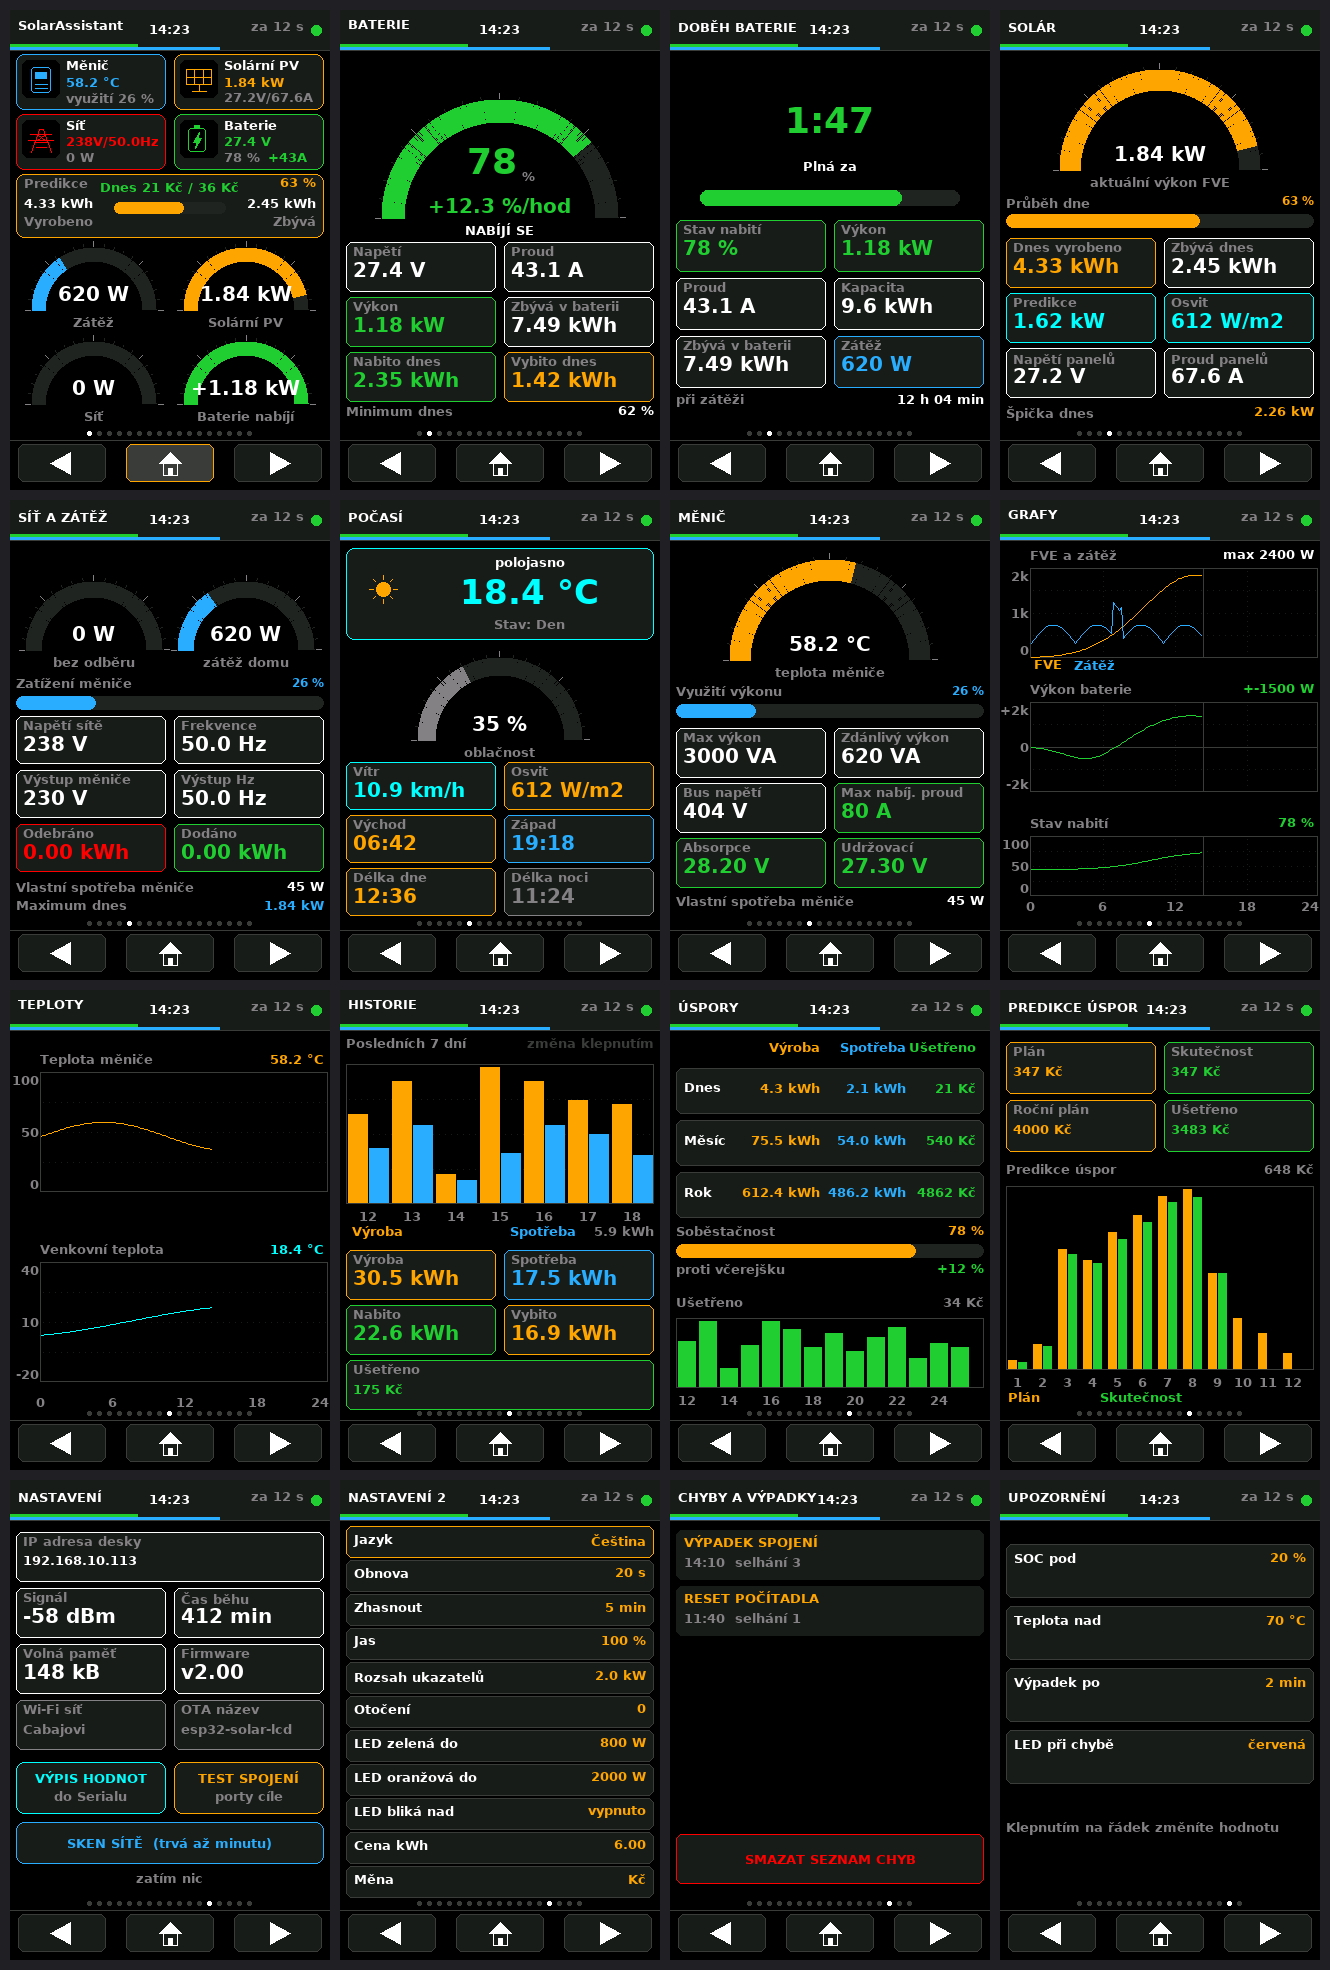
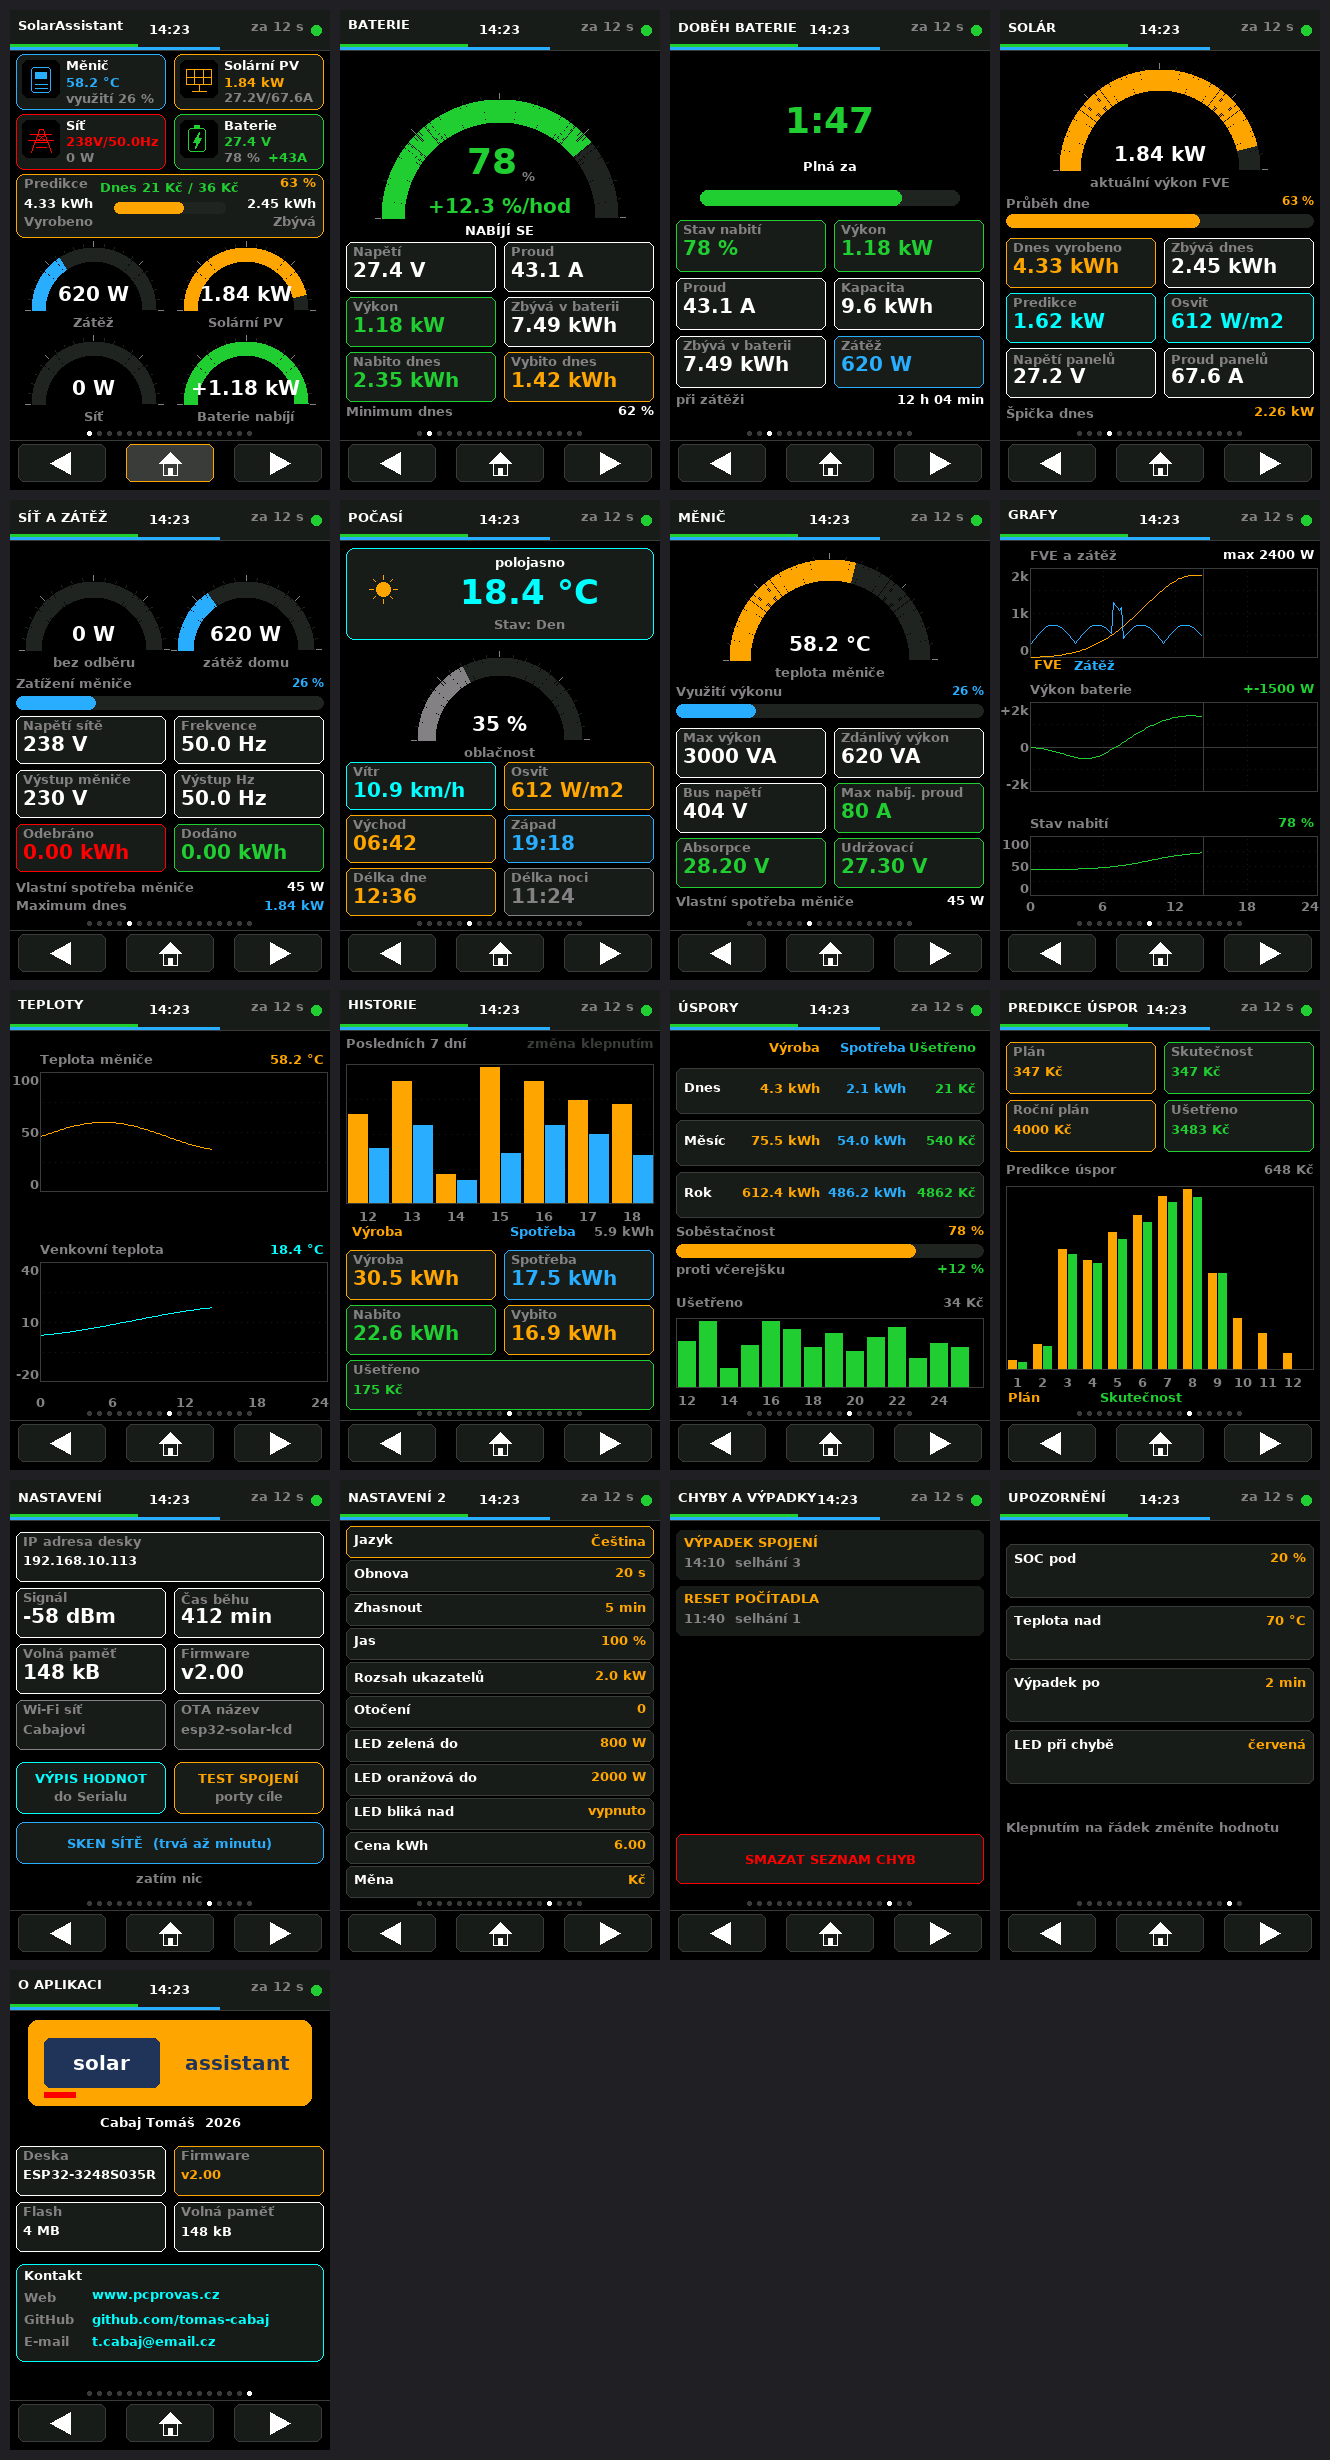
Fix v2.00 overview screenshot sheet

diff --git a/screens.py b/screens.py
@@ -586,10 +586,12 @@ for name, fn in zip(NAMES, FUNCS):
     img.save(OUT + name + ".png")
     print("  ", name + ".png")
 
-# prehledovy list 4 x 4
-sheet = Image.new("RGB", (4 * (W + 10) + 10, 4 * (H + 10) + 10), (32, 32, 36))
+# Přehledový list má čtyři sloupce a tolik řad, kolik vyžadují obrazovky.
+cols = 4
+rows = (len(NAMES) + cols - 1) // cols
+sheet = Image.new("RGB", (cols * (W + 10) + 10, rows * (H + 10) + 10), (32, 32, 36))
 for i, name in enumerate(NAMES):
     im = Image.open(OUT + name + ".png")
-    sheet.paste(im, (10 + (i % 4) * (W + 10), 10 + (i // 4) * (H + 10)))
+    sheet.paste(im, (10 + (i % cols) * (W + 10), 10 + (i // cols) * (H + 10)))
 sheet.save(OUT + "vsechny-obrazovky.png")
 print("   vsechny-obrazovky.png")
